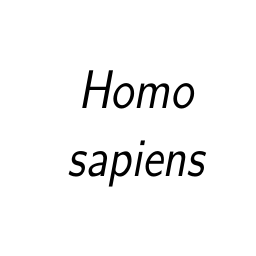
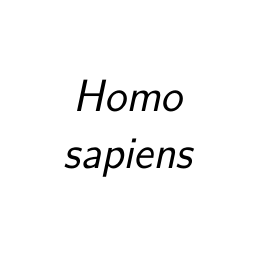
some adjustments modified:   CAPTCHA/README.md modified:   CAPTCHA/chordate/gen.tex modified:   CAPTCHA/chordate/part_1_1.png modified:   CAPTCHA/chordate/part_1_2.png modified:   CAPTCHA/chordate/part_1_3.png modified:   CAPTCHA/chordate/part_1_4.png modified:   CAPTCHA/chordate/part_2_1.png modifi

Changed region(s): [[0.25, 0.5312, 0.8125, 0.75], [0.2812, 0.25, 0.7812, 0.4375]]

diff --git a/CAPTCHA/chordate/gen.tex b/CAPTCHA/chordate/gen.tex
@@ -1,13 +1,12 @@
 \documentclass{standalone}
-\usepackage{booktabs}
 \usepackage{nicematrix}
 \renewcommand{\familydefault}{\sfdefault}
-\renewcommand{\defaultaddspace}{4.3em}
+\renewcommand{\tabcolsep}{0pt}
 \begin{document}
-\begin{NiceTabular}{*{4}{>{\Large\it}c}}[columns-width=20mm,cell-space-limits=4pt]\addlinespace
-	\Block{2-1}{Homo\\sapiens} & \Block{2-1}{Apis\\mellifera} & \Block{2-1}{Panthera\\leo} & \Block{2-1}{Canis\\lupus} \\\\\addlinespace
-	\Block{2-1}{Equus\\ferus} & \Block{2-1}{Gallus\\gallus} & \Block{2-1}{Drosophila\\melanogaster} & \Block{2-1}{Octopus\\vulgaris} \\\\\addlinespace
-	\Block{2-1}{Lissachatina\\fulica} & \Block{2-1}{Salmo\\salar} & \Block{2-1}{Bufo\\bufo} & \Block{2-1}{Chelonia\\mydas} \\\\\addlinespace
+\begin{NiceTabular}{*{4}{>{\Large\it}c}}[columns-width=29mm,cell-space-limits=20.4pt]
+	\Block{2-1}{Homo\\sapiens} & \Block{2-1}{Apis\\mellifera} & \Block{2-1}{Panthera\\leo} & \Block{2-1}{Canis\\lupus} \\\\
+	\Block{2-1}{Equus\\ferus} & \Block{2-1}{Gallus\\gallus} & \Block{2-1}{Drosophila\\melanogaster} & \Block{2-1}{Octopus\\vulgaris} \\\\
+	\Block{2-1}{Lissachatina\\fulica} & \Block{2-1}{Salmo\\salar} & \Block{2-1}{Bufo\\bufo} & \Block{2-1}{Chelonia\\mydas} \\\\
 	\Block{2-1}{Pavo\\cristatus} & \Block{2-1}{Asterias\\rubens} & \Block{2-1}{Balaenoptera\\musculus} & \Block{2-1}{Lumbricus\\terrestris}\\\\
 \end{NiceTabular}
 \end{document}

diff --git a/CAPTCHA/math/gen.tex b/CAPTCHA/math/gen.tex
@@ -1,5 +1,4 @@
 \documentclass{standalone}
-\usepackage{booktabs}
 \usepackage{nicematrix}
 \setlength{\tabcolsep}{0pt}
 \begin{document}

diff --git a/CAPTCHA/README.md b/CAPTCHA/README.md
@@ -34,9 +34,9 @@
 
 ### math
 
-请选出以下包含 **小于2的数学常数** 的所有图片：
+请选出以下包含 **大于2的数学常数** 的所有图片：
 
-答案：`[]`
+答案：`[(1,1),(1,4),(2,2)]`
 
 ### northern
 
